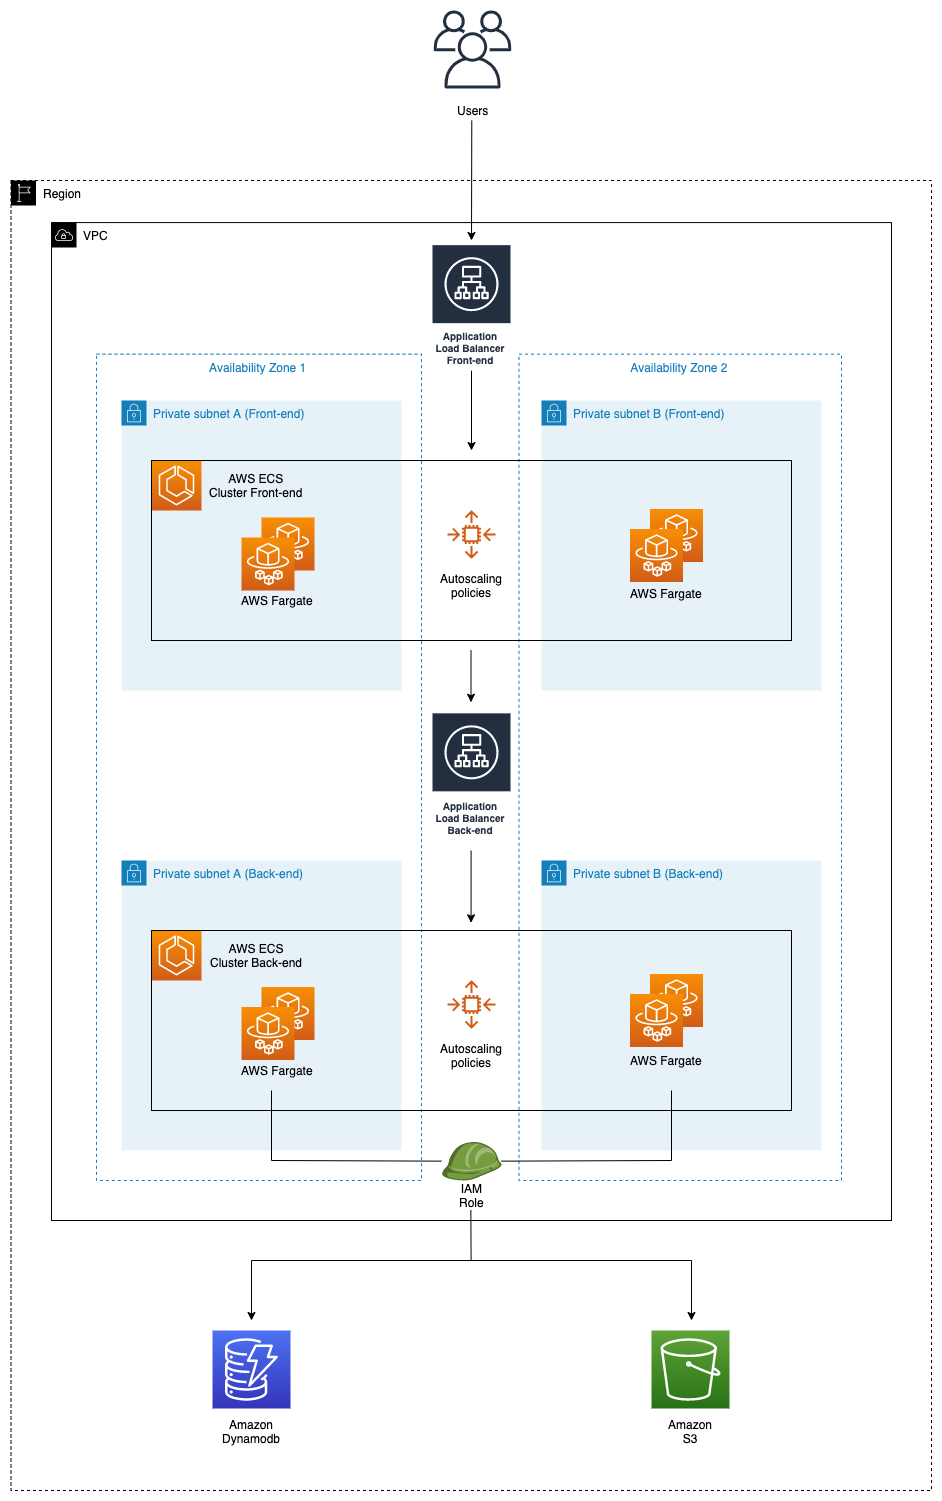
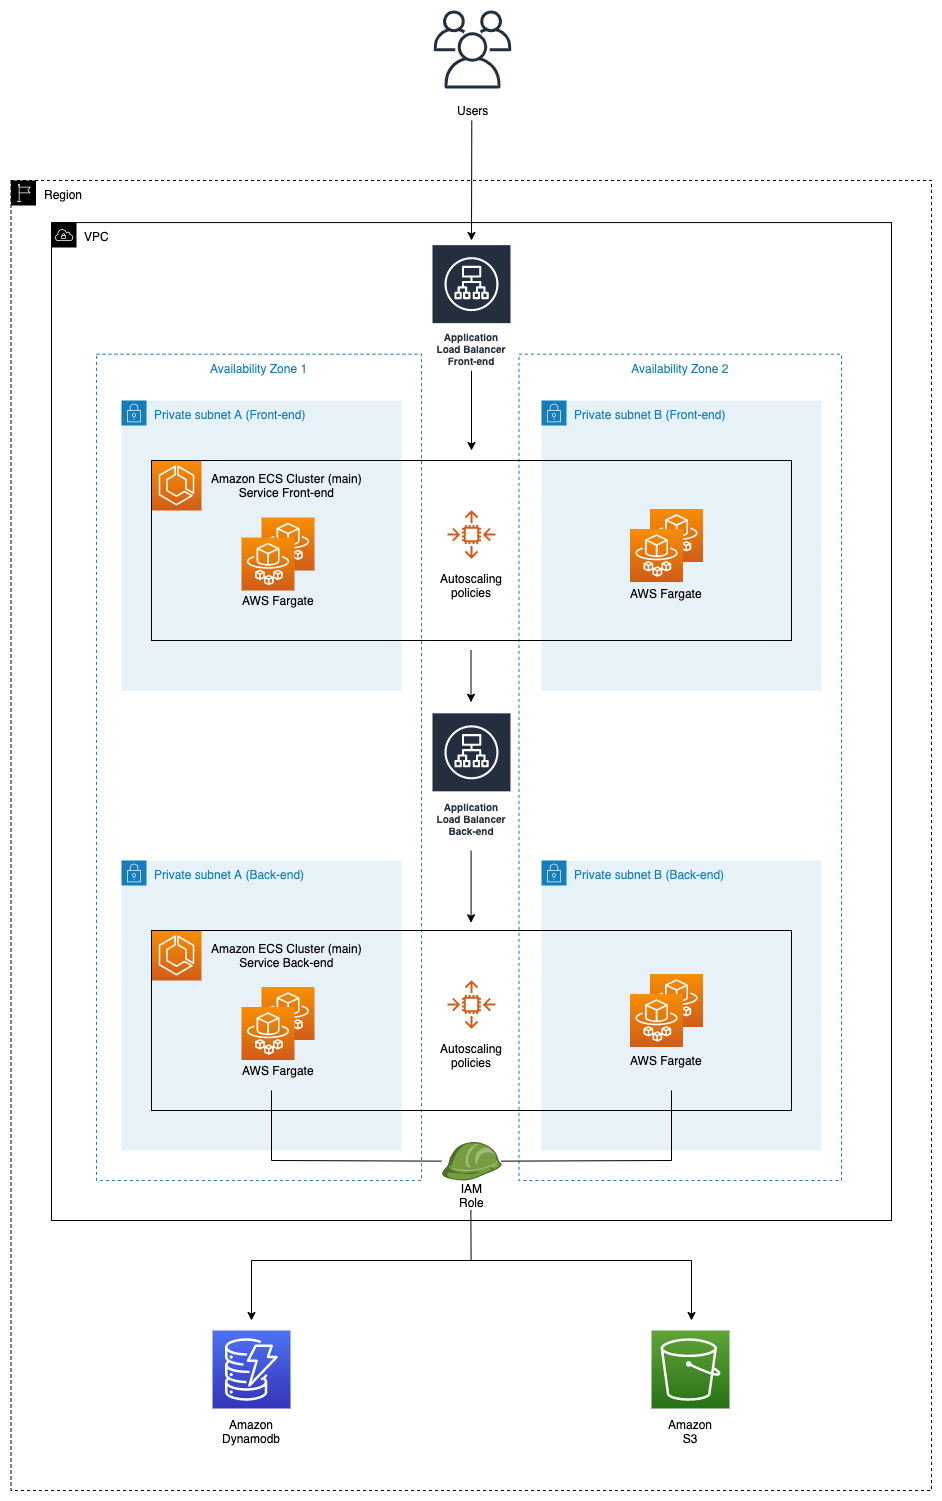
Fixing architecture diagram

diff --git a/README.md b/README.md
@@ -38,8 +38,8 @@ The Infrastructure folder contains the terraform code to deploy the AWS resource
 
 - AWS Networking resources, following best practices for HA
 - 2 ECR Repositories
-- 2 ECS Cluster
-- 2 ECS Service
+- 1 ECS Cluster
+- 2 ECS Services
 - 2 Task definitions
 - 4 Autoscaling Policies + Cloudwatch Alarms
 - 2 Application Load Balancer (Public facing)
